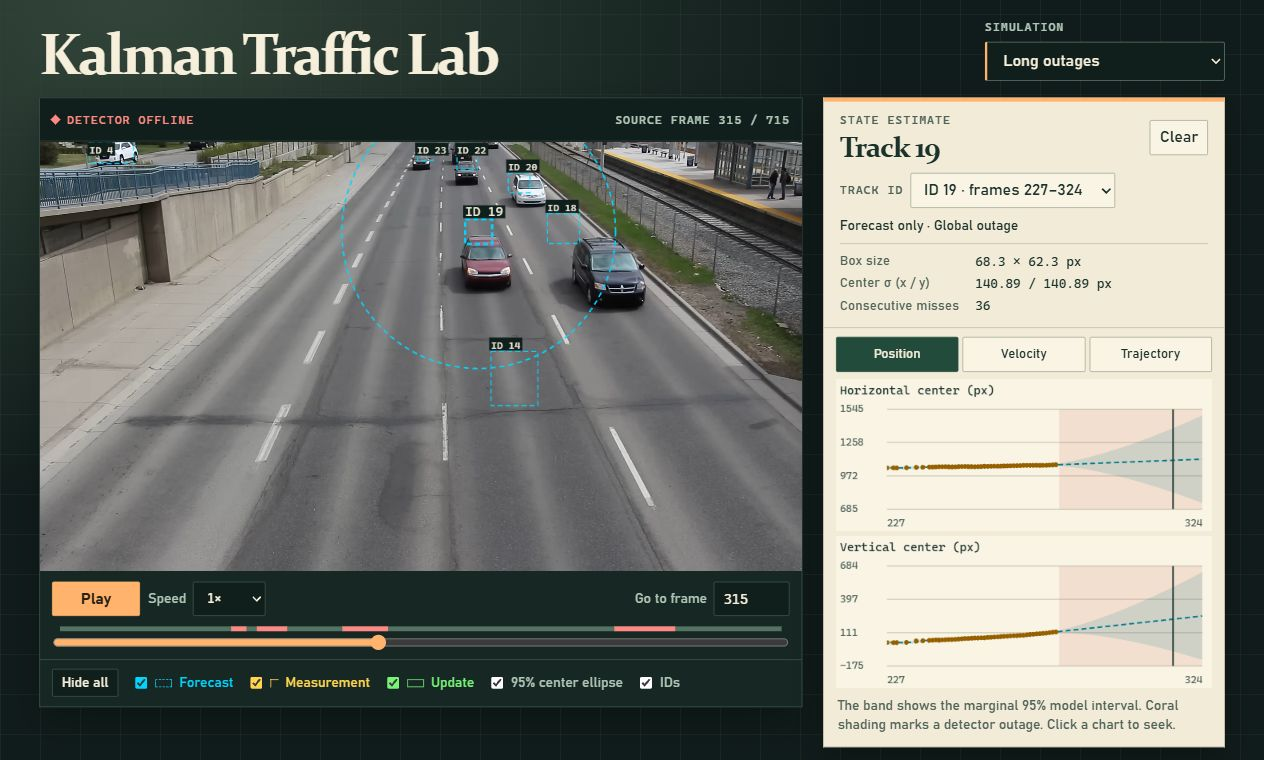
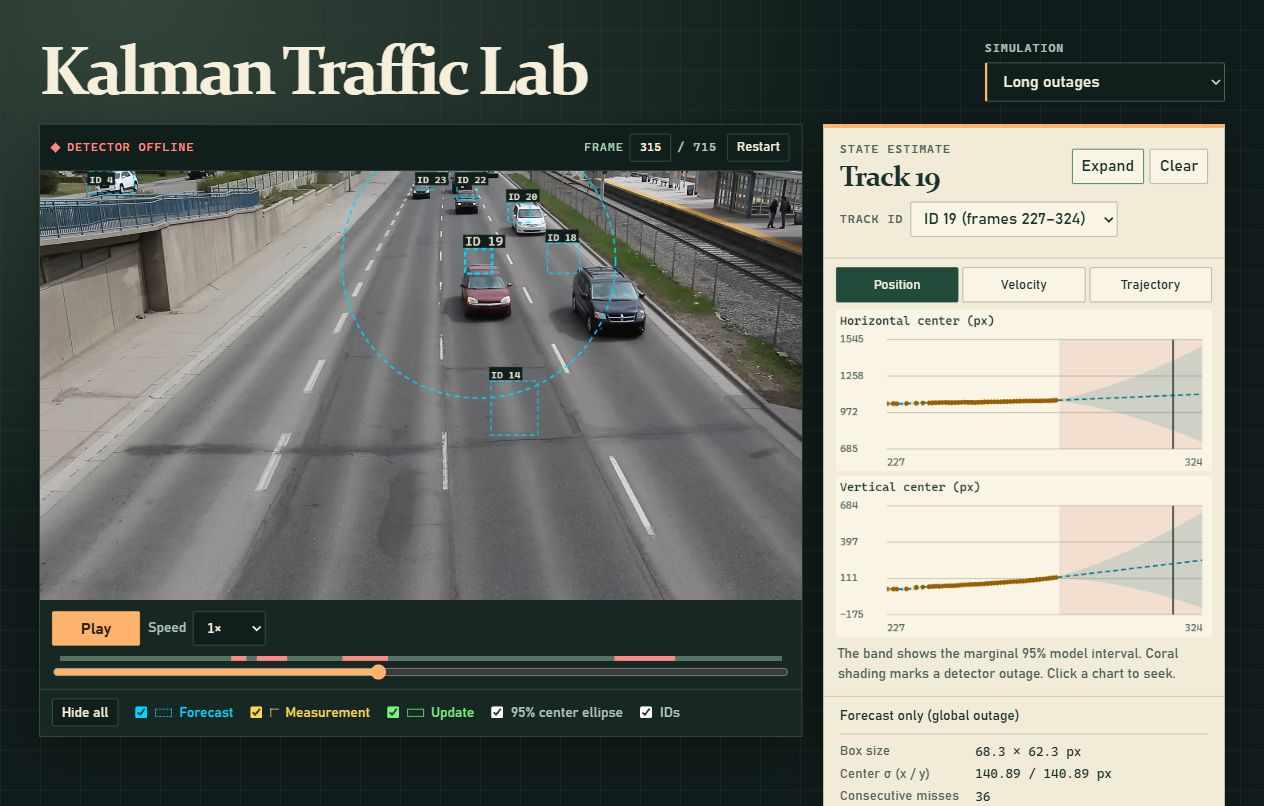
Add an expanded chart view and refresh the README

diff --git a/interactive_web/app.js b/interactive_web/app.js
@@ -10,6 +10,7 @@ const layers = {forecast:"forecast", detection:"measurement", corrected:"update"
 const boxes = ["forecast", "detection", "corrected"];
 const overlayInputs = [...Object.values(layers), "ellipse", "ids"].map($);
 const timeline = $("timeline"), frameNumber = $("frame-number");
+const estimateDialog = $("estimate-dialog"), estimatePanel = $("estimate-panel");
 let draggingTimeline = false, editingFrame = false;
 let manifest, run, frames = [], index = [], history = null, selected = null, hovered = null;
 let frame = 0, tab = "position", runVersion = 0, trackVersion = 0;
@@ -157,6 +158,7 @@ function refreshInspector() {
   $("track-title").textContent = selected === null ? "Track inspector" : "Track " + selected;
   $("clear").disabled = selected === null;
   $("analytics").hidden = !history;
+  $("expand-estimate").disabled = !history;
   $("metrics").hidden = !history;
   const current = record?.status === "expired" ? null : record;
   const missing = "—";
@@ -213,7 +215,8 @@ function timeChart(canvas, coordinate, title, unit) {
   const surface = setupCanvas(canvas);
   if (!surface) return;
   const {ctx, width, height} = surface;
-  const plot = {left:51, top:30, right:width - 10, bottom:height - 22};
+  const textScale = estimateDialog.open ? 1.25 : 1;
+  const plot = {left:51*textScale, top:30*textScale, right:width - 10, bottom:height - 22*textScale};
   const rows = history.filter(row => row.status !== "expired");
   const first = rows[0].frame, last = Math.max(first + 1, rows.at(-1).frame);
   const px = value => plot.left + (value - first) / (last - first) * (plot.right - plot.left);
@@ -223,17 +226,22 @@ function timeChart(canvas, coordinate, title, unit) {
   const values = rows.flatMap(row => [estimate(row) - sd(row), estimate(row) + sd(row), row.x_pred?.[coordinate], row.z?.[coordinate]].filter(value => value != null));
   const min = Math.min(...values), max = Math.max(...values), pad = Math.max((max - min) * 0.07, 0.01);
   const py = value => plot.bottom - (value - min + pad) / (max - min + 2*pad) * (plot.bottom - plot.top);
-  ctx.font = "12px " + mono;
+  ctx.font = 12*textScale + "px " + mono;
   ctx.fillStyle = theme("ink");
-  ctx.fillText(title + " (" + unit + ")", 4, 15);
-  ctx.font = "10px " + mono;
+  ctx.fillText(title + " (" + unit + ")", 4, 15*textScale);
+  ctx.font = 10*textScale + "px " + mono;
   for (let i = 0; i <= 3; i++) {
     const value = min - pad + (max - min + 2*pad) * i/3, y = py(value);
     ctx.fillStyle = theme("muted-ink"); ctx.fillText(value.toFixed(coordinate >= 4 ? 1 : 0), 4, y+3);
     ctx.strokeStyle = theme("plot-grid"); ctx.beginPath(); ctx.moveTo(plot.left,y); ctx.lineTo(plot.right,y); ctx.stroke();
   }
-  ctx.textAlign = "right"; ctx.fillText(last,plot.right,height-5);
-  ctx.textAlign = "left"; ctx.fillText(first,plot.left,height-5);
+  const tickCount = estimateDialog.open ? Math.min(7, last - first + 1) : 2;
+  for (let i = 0; i < tickCount; i++) {
+    const tick = Math.round(first + (last - first) * i / (tickCount - 1));
+    ctx.textAlign = i === 0 ? "left" : i === tickCount - 1 ? "right" : "center";
+    ctx.fillText(tick, px(tick), height - 5);
+  }
+  ctx.textAlign = "left";
   ctx.save(); ctx.beginPath(); ctx.rect(plot.left,plot.top,plot.right-plot.left,plot.bottom-plot.top); ctx.clip();
   ctx.fillStyle = theme("plot-outage");
   for (const [start, end] of run.outages) ctx.fillRect(px(start),plot.top,px(end)-px(start),plot.bottom-plot.top);
@@ -264,7 +272,8 @@ function trajectory(canvas) {
   const w = Math.max(...xs) - minX + 25, h = Math.max(...ys) - minY + 25;
   const scale = Math.min((width-25)/w,(height-48)/h);
   const offsetX = (width - w*scale)/2, offsetY = 29 + (height-48 - h*scale)/2;
-  ctx.fillStyle = theme("ink"); ctx.font = "12px " + mono; ctx.fillText("Center trajectory (image pixels, y down)", 5, 15);
+  ctx.fillStyle = theme("ink"); ctx.font = (estimateDialog.open ? 15 : 12) + "px " + mono;
+  ctx.fillText("Center trajectory (image pixels, y down)", 5, estimateDialog.open ? 19 : 15);
   ctx.save(); ctx.translate(offsetX-minX*scale,offsetY-minY*scale); ctx.scale(scale,scale);
   const x = (_,state) => state[0], y = (_,state) => state[1];
   series(ctx, rows, x, y, row => row.x_pred, plotColors.forecast,{dashed:true});
@@ -409,6 +418,19 @@ frameNumber.onkeydown = event => {
 $("run").onchange = event => loadRun(event.target.value);
 $("track").onchange = event => selectTrack(event.target.value ? Number(event.target.value) : null);
 $("clear").onclick = () => selectTrack(null);
+const estimateHome = estimatePanel.parentElement;
+$("expand-estimate").onclick = () => {
+  estimateDialog.append(estimatePanel);
+  estimateDialog.showModal();
+  $("close-estimate").focus({preventScroll:true});
+  renderCharts();
+};
+$("close-estimate").onclick = () => estimateDialog.close();
+estimateDialog.addEventListener("close", () => {
+  estimateHome.append(estimatePanel);
+  $("expand-estimate").focus({preventScroll:true});
+  if (history) renderCharts();
+});
 function updateOverlayControls() {
   $("toggle-overlays").textContent = overlayInputs.some(input => input.checked) ? "Hide all" : "Show all";
   drawOverlay();
@@ -446,7 +468,7 @@ document.addEventListener("keydown", event => {
   if (playbackShortcut) {
     event.preventDefault();
     if (!event.repeat && !$("play").disabled) togglePlay();
-  } else if (event.key === "Escape") {
+  } else if (event.key === "Escape" && !estimateDialog.open) {
     selectTrack(null);
   }
 }, {capture:true});

diff --git a/interactive_web/style.css b/interactive_web/style.css
@@ -234,6 +234,32 @@ aside {
 
 .inspector { padding: 14px 16px 13px; }
 .inspector-top { display: flex; align-items: center; justify-content: space-between; gap: 10px; }
+.inspector-actions { display: flex; align-items: center; gap: 6px; }
+#expand-estimate:not(:disabled) { border-color: var(--plot-update); }
+#close-estimate { display: none; }
+#estimate-dialog {
+  width: min(1050px, calc(100% - 32px));
+  max-width: none;
+  max-height: calc(100dvh - 32px);
+  padding: 0;
+  color-scheme: light;
+  color: var(--ink);
+  background: var(--paper);
+  border: 1px solid var(--paper-line);
+  border-top: 4px solid var(--accent);
+  box-shadow: 0 22px 80px #0009;
+}
+#estimate-dialog::backdrop {
+  background: #07120fbb;
+  backdrop-filter: blur(3px);
+}
+#estimate-dialog #estimate-panel { border: 0; box-shadow: none; animation: none; }
+#estimate-dialog #expand-estimate, #estimate-dialog #clear { display: none; }
+#estimate-dialog #close-estimate { display: inline-block; }
+#estimate-dialog #analytics { padding-inline: clamp(10px, 2.4vw, 24px); }
+#estimate-dialog .chart { height: clamp(175px, 27dvh, 310px); }
+#estimate-dialog .chart.spatial { height: clamp(300px, 58dvh, 560px); }
+
 .panel-label { color: var(--muted-ink); margin-bottom: 4px; }
 h2 { font: 600 clamp(1.55rem, 2.3vw, 2.25rem)/1.04 var(--display); letter-spacing: -.042em; }
 aside button, aside select { color: var(--ink); background: var(--paper-raised); border-color: #a4ab95; }

diff --git a/interactive_web/index.html b/interactive_web/index.html
@@ -48,11 +48,15 @@
         <label><input type="checkbox" id="ids" checked> IDs</label>
       </div>
     </section>
-    <aside aria-label="Selected vehicle analytics">
+    <aside id="estimate-panel" aria-label="Selected vehicle analytics">
       <div class="inspector">
         <div class="inspector-top">
           <div><p class="panel-label">State estimate</p><h2 id="track-title">Track inspector</h2></div>
-          <button id="clear" type="button" disabled>Clear</button>
+          <div class="inspector-actions">
+            <button id="expand-estimate" type="button" aria-haspopup="dialog" disabled>Expand</button>
+            <button id="clear" type="button" disabled>Clear</button>
+            <button id="close-estimate" type="button">Close</button>
+          </div>
         </div>
         <label class="track-label"><span>Track ID</span><select id="track" disabled><option value="">Choose a track</option></select></label>
       </div>
@@ -77,5 +81,6 @@
       </div>
     </aside>
   </main>
+  <dialog id="estimate-dialog" aria-labelledby="track-title"></dialog>
 </body>
 </html>

diff --git a/README.md b/README.md
@@ -2,17 +2,17 @@
 
 An interactive browser demo for teaching the **linear Kalman filter** with traffic footage. A pretrained YOLO detector supplies bounding boxes, and a constant-velocity filter estimates each car's position, box size, and image-plane velocity.
 
-[Run the lab locally](README-interactive.md) · [See the four scenarios](#four-simulation-examples) · [Render annotated clips](#run)
+[Run the lab locally](README-interactive.md) | [See the four scenarios](#four-simulation-examples) | [Render annotated clips](#run)
 
-![Kalman Traffic Lab at frame 315 with track 19 selected, a cyan uncertainty ellipse over the forecast, and synchronized position charts](docs/demo/interactive-lab.jpg)
+![Kalman Traffic Lab at frame 315 with track 19 selected, a cyan uncertainty ellipse, the editable frame counter, and the Expand button above the position charts](docs/demo/interactive-lab.jpg)
 
 *At frame 315 of the long-outage scenario, track 19 has gone 36 frames without a measurement. The filter still forecasts the car's position, while the ellipse and shaded bands show its growing uncertainty.*
 
 ## What you can explore
 
-- **Play and inspect the original video.** Pause with Space, adjust playback speed, scrub the timeline, or jump to an exact source frame. Click a box to pin its track and open the inspector.
+- **Play and inspect the original video.** Use Space to play or pause, change speed up to 2×, or enter an exact frame in the counter beside Restart. Click a box to pin its track and open the inspector.
 - **Read the forecast and analysis side by side.** Cyan dashes show the forecast, yellow corners show the detector measurement, and a solid green rectangle shows the Kalman update. Toggle layers individually or use **Hide all**.
-- **Follow the state and its uncertainty.** The position, velocity, and trajectory views use the estimator's recorded means and covariances. The 95% center ellipse and chart bands show uncertainty under the model. Click a time-series chart to seek to its source frame.
+- **Follow the state and its uncertainty.** The position, velocity, and trajectory views use the estimator's recorded means and covariances. The 95% center ellipse and chart bands show uncertainty under the model. Choose **Expand** for larger graphs with more readable axes, or click a time-series chart to seek to its source frame.
 - **See what happens when measurements disappear and return.** Switch among baseline tracking, short seeded outages, short outages with noisy measurements, and long outages. Matched tracks keep their IDs when detections return. Unmatched old tracks retire and their history remains available.
 
 The lab illustrates the forecast and analysis steps in Algorithm 6.3 of Reich and Cotter's *Probabilistic Forecasting and Bayesian Data Assimilation*. The outage and noise scenarios are simulated.

diff --git a/README-interactive.md b/README-interactive.md
@@ -12,6 +12,6 @@ Double-click **Traffic Lab.cmd** in the project folder and choose Start, Refresh
 
 Open [the local preview](http://127.0.0.1:8000/). After editing the frontend, run the refresh command and reload your browser. Start builds the export if it is missing. To regenerate the four scenarios after changing the tracker, run `python build_interactive_export.py` in your usual Python environment with FFmpeg on PATH. The export uses the saved detections and lives under the Git-ignored output folder.
 
-Press Space to play or pause from anywhere on the page. Click a car to pin it, or choose its track ID. Use the timeline, the arrow keys when the video is focused, or click a time-series chart to seek. Switch between position, velocity, and image-plane trajectory in the right-hand inspector. Changing simulation clears the track selection because IDs are local to each run.
+Press Space to play or pause from anywhere on the page. Click a car to pin it, or choose its track ID. Use the timeline, the arrow keys when the video is focused, or click a time-series chart to seek. Switch between position, velocity, and image-plane trajectory in the right-hand inspector. Use **Expand** to open larger graphs and **Esc** to return. Changing simulation clears the track selection because IDs are local to each run.
 
 Cyan is the forecast, yellow is the measurement, and green is the Kalman correction. A detector can be online while an individual track still lacks a match. When detections first return after a global outage, unmatched old tracks are retired. The bands and ellipses describe the model's estimated uncertainty in the state.
